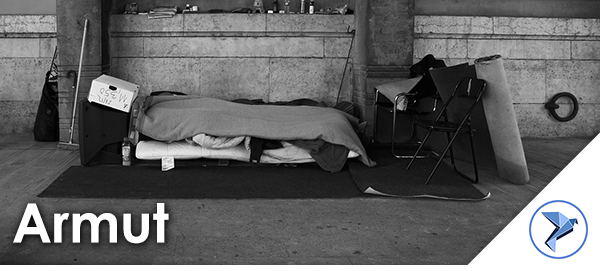
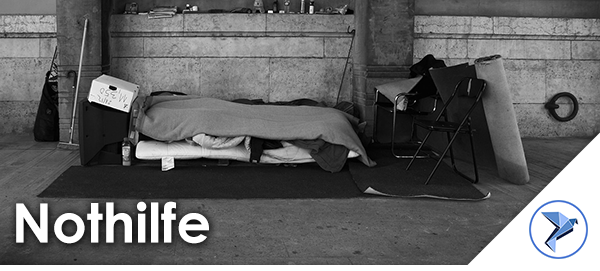
EasyBenefit.de | Version 1.1.17

Changed region(s): [[0.0, 0.738, 0.36, 0.9151]]

diff --git a/com/modal.php b/com/modal.php
@@ -64,6 +64,7 @@
           elseif($shop == "engelhorn") {echo "src='/style/img/shops/050.png' alt='Engelhorn'";}
           elseif($shop == "mediamarkt") {echo "src='/style/img/shops/051.png' alt='Mediamarkt'";}
           elseif($shop == "schalke04") {echo "src='/style/img/shops/052.png' alt='Schalke 04 Fanshop'";}
+          elseif($shop == "urlaubsbox") {echo "src='/style/img/shops/056/logo-small.jpg' alt='Urlaubsbox Freu dich drauf.'";}
       ?>/>
     </div>
     <div class="modal-body">
@@ -122,6 +123,7 @@
             elseif($shop == "engelhorn") {echo "http://partners.webmasterplan.com/click.asp?ref=711797&site=10317&type=b7&bnb=7&subid=kinder";}
             elseif($shop == "mediamarkt") {echo "http://partners.webmasterplan.com/click.asp?ref=711797&site=14665&type=b78&bnb=78&subid=kinder";}
             elseif($shop == "schalke") {echo "http://partners.webmasterplan.com/click.asp?ref=711797&site=14980&type=b21&bnb=21&subid=kinder";}
+            elseif($shop == "urlaubsbox") {echo "http://partners.webmasterplan.com/click.asp?ref=711797&site=9949&type=b10&bnb=10&subid=kinder";}
           ?>'/>
             <div class="projectcard">
               <img class="img-responsive" src="/style/img/projekte/projectcard-kinderhilfe-modal.png" alt="Spende für das aktuelle Kinderhilfsprojekt auf EasyBenefit.de"/>
@@ -188,6 +190,7 @@
     				elseif($shop == "engelhorn") {echo "http://partners.webmasterplan.com/click.asp?ref=711797&site=10317&type=b7&bnb=7&subid=senioren";}
     				elseif($shop == "mediamarkt") {echo "http://partners.webmasterplan.com/click.asp?ref=711797&site=14665&type=b78&bnb=78&subid=senioren";}
     				elseif($shop == "schalke") {echo "http://partners.webmasterplan.com/click.asp?ref=711797&site=14980&type=b21&bnb=21&subid=senioren";}
+            elseif($shop == "urlaubsbox") {echo "http://partners.webmasterplan.com/click.asp?ref=711797&site=9949&type=b10&bnb=10&subid=senioren";}
           ?>'/>
             <div class="projectcard">
               <img class="img-responsive" src="/style/img/projekte/projectcard-seniorenhilfe-modal.png" alt="Spende für das aktuelle Seniorenhilfsprojekt auf EasyBenefit.de"/>
@@ -254,6 +257,7 @@
     				elseif($shop == "engelhorn") {echo "http://partners.webmasterplan.com/click.asp?ref=711797&site=10317&type=b7&bnb=7&subid=tiere";}
     				elseif($shop == "mediamarkt") {echo "http://partners.webmasterplan.com/click.asp?ref=711797&site=14665&type=b78&bnb=78&subid=tiere";}
     				elseif($shop == "schalke") {echo "http://partners.webmasterplan.com/click.asp?ref=711797&site=14980&type=b21&bnb=21&subid=tiere";}
+            elseif($shop == "urlaubsbox") {echo "http://partners.webmasterplan.com/click.asp?ref=711797&site=9949&type=b10&bnb=10&subid=tiere";}
           ?>'/>
             <div class="projectcard">
               <img class="img-responsive" src="/style/img/projekte/projectcard-tierschutz-modal.png" alt="Spende für das aktuelle Tierschutzprojekt auf EasyBenefit.de"/>
@@ -322,6 +326,7 @@
     				elseif($shop == "engelhorn") {echo "http://partners.webmasterplan.com/click.asp?ref=711797&site=10317&type=b7&bnb=7&subid=natur";}
     				elseif($shop == "mediamarkt") {echo "http://partners.webmasterplan.com/click.asp?ref=711797&site=14665&type=b78&bnb=78&subid=natur";}
     				elseif($shop == "schalke") {echo "http://partners.webmasterplan.com/click.asp?ref=711797&site=14980&type=b21&bnb=21&subid=natur";}
+            elseif($shop == "urlaubsbox") {echo "http://partners.webmasterplan.com/click.asp?ref=711797&site=9949&type=b10&bnb=10&subid=natur";}
           ?>'/>
             <div class="projectcard">
               <img class="img-responsive" src="/style/img/projekte/projectcard-naturschutz-modal.png" alt="Spende für das aktuelle Naturschutzprojekt auf EasyBenefit.de"/>
@@ -388,6 +393,7 @@
     				elseif($shop == "engelhorn") {echo "http://partners.webmasterplan.com/click.asp?ref=711797&site=10317&type=b7&bnb=7&subid=entwicklung";}
     				elseif($shop == "mediamarkt") {echo "http://partners.webmasterplan.com/click.asp?ref=711797&site=14665&type=b78&bnb=78&subid=entwicklung";}
     				elseif($shop == "schalke") {echo "http://partners.webmasterplan.com/click.asp?ref=711797&site=14980&type=b21&bnb=21&subid=entwicklung";}
+            elseif($shop == "urlaubsbox") {echo "http://partners.webmasterplan.com/click.asp?ref=711797&site=9949&type=b10&bnb=10&subid=entwicklung";}
           ?>'/>
             <div class="projectcard">
               <img class="img-responsive" src="/style/img/projekte/projectcard-entwicklungshilfe-modal.png" alt="Spende für das aktuelle Entwicklungshilfsprojekt auf EasyBenefit.de"/>
@@ -454,6 +460,7 @@
     				elseif($shop == "engelhorn") {echo "http://partners.webmasterplan.com/click.asp?ref=711797&site=10317&type=b7&bnb=7&subid=gesundheit";}
     				elseif($shop == "mediamarkt") {echo "http://partners.webmasterplan.com/click.asp?ref=711797&site=14665&type=b78&bnb=78&subid=gesundheit";}
     				elseif($shop == "schalke") {echo "http://partners.webmasterplan.com/click.asp?ref=711797&site=14980&type=b21&bnb=21&subid=gesundheit";}
+            elseif($shop == "urlaubsbox") {echo "http://partners.webmasterplan.com/click.asp?ref=711797&site=9949&type=b10&bnb=10&subid=gesundheit";}
           ?>'/>
             <div class="projectcard">
               <img class="img-responsive" src="/style/img/projekte/projectcard-gesundheit-modal.png" alt="Spende für das aktuelle Gesundheitsprojekt auf EasyBenefit.de"/>
@@ -522,6 +529,7 @@
     				elseif($shop == "engelhorn") {echo "http://partners.webmasterplan.com/click.asp?ref=711797&site=10317&type=b7&bnb=7&subid=bildung";}
     				elseif($shop == "mediamarkt") {echo "http://partners.webmasterplan.com/click.asp?ref=711797&site=14665&type=b78&bnb=78&subid=bildung";}
     				elseif($shop == "schalke") {echo "http://partners.webmasterplan.com/click.asp?ref=711797&site=14980&type=b21&bnb=21&subid=bildung";}
+            elseif($shop == "urlaubsbox") {echo "http://partners.webmasterplan.com/click.asp?ref=711797&site=9949&type=b10&bnb=10&subid=bildung";}
           ?>'/>
             <div class="projectcard">
               <img class="img-responsive" src="/style/img/projekte/projectcard-bildung-modal.png" alt="Spende für das aktuelle Bildungsprojekt auf EasyBenefit.de"/>
@@ -538,61 +546,62 @@
         </div>
         <div class="col-sm-4">
           <a target="_blank" href='<?php if($shop == "amazon") {echo "http://bit.ly/amazon_armut_modal";}
-            elseif($shop == "bahn") {echo "http://partners.webmasterplan.com/click.asp?ref=711797&site=2894&type=b184&bnb=184&subid=armut";}
-    				elseif($shop == "docmorris") {echo "http://partners.webmasterplan.com/click.asp?ref=711797&site=3174&type=b184&bnb=184&subid=armut";}
-    				elseif($shop == "mydays") {echo "http://partners.webmasterplan.com/click.asp?ref=711797&site=3073&type=b434&bnb=434&subid=armut";}
-  		      elseif($shop == "runnerspoint") {echo "http://partners.webmasterplan.com/click.asp?ref=711797&site=7703&type=b42&bnb=42&subid=armut";}
-    				elseif($shop == "flaconi") {echo "http://partners.webmasterplan.com/click.asp?ref=711797&site=9069&type=b175&bnb=175&subid=armut";}
-    				elseif($shop == "trendfabrik") {echo "http://partners.webmasterplan.com/click.asp?ref=711797&site=8061&type=b60&bnb=60&subid=armut";}
-    				elseif($shop == "elbenwald") {echo "http://partners.webmasterplan.com/click.asp?ref=711797&site=2952&type=b552&bnb=552&subid=armut";}
-    				elseif($shop == "karstadt") {echo "http://partners.webmasterplan.com/click.asp?ref=711797&site=3720&type=b296&bnb=296&subid=armut";}
-    				elseif($shop == "bodyshop") {echo "http://partners.webmasterplan.com/click.asp?ref=711797&site=7647&type=b51&bnb=51&subid=armut";}
-    				elseif($shop == "amorelie") {echo "http://partners.webmasterplan.com/click.asp?ref=711797&site=12125&type=b97&bnb=97&subid=armut";}
-    				elseif($shop == "gymaesthetics") {echo "http://partners.webmasterplan.com/click.asp?ref=711797&site=13807&type=b26&bnb=26&subid=armut";}
-    				elseif($shop == "bookyourpresent") {echo "http://partners.webmasterplan.com/click.asp?ref=711797&site=13704&type=b21&bnb=21&subid=armut";}
-    				elseif($shop == "fotopuzzle") {echo "http://partners.webmasterplan.com/click.asp?ref=711797&site=6425&type=b13&bnb=13&subid=armut";}
-    				elseif($shop == "belsonno") {echo "http://partners.webmasterplan.com/click.asp?ref=711797&site=13661&type=text&tnb=2&subid=armut";}
-    				elseif($shop == "bvb") {echo "http://partners.webmasterplan.com/click.asp?ref=711797&site=14355&type=b46&bnb=46&subid=armut";}
-    				elseif($shop == "planetsports") {echo "http://partners.webmasterplan.com/click.asp?ref=711797&site=1943&type=b71&bnb=71&subid=armut";}
-    				elseif($shop == "home24") {echo "http://partners.webmasterplan.com/click.asp?ref=711797&site=7305&type=b225&bnb=225&subid=armut";}
-    				elseif($shop == "technomarkt") {echo "http://partners.webmasterplan.com/click.asp?ref=711797&site=13221&type=b18&bnb=18&subid=armut";}
-    				elseif($shop == "bergfreunde") {echo "http://partners.webmasterplan.com/click.asp?ref=711797&site=4108&type=text&tnb=38&subid=armut";}
-    				elseif($shop == "christ") {echo "http://partners.webmasterplan.com/click.asp?ref=711797&site=9063&type=b88&bnb=88&subid=armut";}
-    				elseif($shop == "brands4friends") {echo "http://partners.webmasterplan.com/click.asp?ref=711797&site=6466&type=b86&bnb=86&subid=armut";}
-    				elseif($shop == "ceweprint") {echo "http://partners.webmasterplan.com/click.asp?ref=711797&site=12052&type=b2&bnb=2&subid=armut";}
-    				elseif($shop == "decathlon") {echo "http://partners.webmasterplan.com/click.asp?ref=711797&site=10685&type=b7&bnb=7&subid=armut";}
-    				elseif($shop == "reichelt") {echo "http://partners.webmasterplan.com/click.asp?ref=711797&site=8948&type=b1&bnb=1&subid=armut";}
-    				elseif($shop == "schmuckonline") {echo "http://partners.webmasterplan.com/click.asp?ref=711797&site=13833&type=b4&bnb=4&subid=armut";}
-    				elseif($shop == "shopapotheke") {echo "http://partners.webmasterplan.com/click.asp?ref=711797&site=3357&type=text&tnb=34&subid=armut";}
-    				elseif($shop == "sportida") {echo "http://partners.webmasterplan.com/click.asp?ref=711797&site=13866&type=b23&bnb=23&subid=armut";}
-    				elseif($shop == "vistaprint") {echo "http://partners.webmasterplan.com/click.asp?ref=711797&site=1860&type=b48&bnb=48&subid=armut";}
-    				elseif($shop == "zooplus") {echo "http://partners.webmasterplan.com/click.asp?ref=711797&site=1597&type=b117&bnb=117&subid=armut";}
-    				elseif($shop == "audible") {echo "http://partners.webmasterplan.com/click.asp?ref=711797&site=3582&type=b198&bnb=198&subid=armut";}
-    				elseif($shop == "orsay") {echo "http://partners.webmasterplan.com/click.asp?ref=711797&site=4823&type=b3&bnb=3&subid=armut";}
-    				elseif($shop == "shirtinator") {echo "http://partners.webmasterplan.com/click.asp?ref=711797&site=5156&type=b17&bnb=17&subid=armut";}
-    				elseif($shop == "dawanda") {echo "http://partners.webmasterplan.com/click.asp?ref=711797&site=5571&type=b71&bnb=71&subid=armut";}
-    				elseif($shop == "hunkemöller") {echo "http://partners.webmasterplan.com/click.asp?ref=711797&site=6668&type=b106&bnb=106&subid=armut";}
-    				elseif($shop == "spartoo") {echo "http://partners.webmasterplan.com/click.asp?ref=711797&site=7563&type=b120&bnb=120&subid=armut";}
-    				elseif($shop == "sidestep") {echo "http://partners.webmasterplan.com/click.asp?ref=711797&site=7713&type=b32&bnb=32&subid=armut";}
-    				elseif($shop == "seidensticker") {echo "http://partners.webmasterplan.com/click.asp?ref=711797&site=8356&type=b81&bnb=81&subid=armut";}
-    				elseif($shop == "uhrenshop") {echo "http://partners.webmasterplan.com/click.asp?ref=711797&site=10063&type=b22&bnb=22&subid=armut";}
-    				elseif($shop == "sweet&fine") {echo "http://partners.webmasterplan.com/click.asp?ref=711797&site=13634&type=b14&bnb=14&subid=armut";}
-    				elseif($shop == "bokolina") {echo "http://partners.webmasterplan.com/click.asp?ref=711797&site=13762&type=b41&bnb=41&subid=armut";}
-    				elseif($shop == "ikea") {echo "http://partners.webmasterplan.com/click.asp?ref=711797&site=14354&type=b34&bnb=34&subid=armut";}
-    				elseif($shop == "buroshop24") {echo "http://partners.webmasterplan.com/click.asp?ref=711797&site=4084&type=b4&bnb=4&subid=armut";}
-    				elseif($shop == "neckermann") {echo "http://partners.webmasterplan.com/click.asp?ref=711797&site=13237&type=b7&bnb=7&subid=armut";}
-    				elseif($shop == "roller") {echo "http://partners.webmasterplan.com/click.asp?ref=711797&site=10010&type=b3&bnb=3&subid=armut";}
-    				elseif($shop == "postbus") {echo "http://partners.webmasterplan.com/click.asp?ref=711797&site=13643&type=b61&bnb=61&subid=armut";}
-    				elseif($shop == "comdirect") {echo "http://partners.webmasterplan.com/click.asp?ref=711797&site=3692&type=b73&bnb=73&subid=armut";}
-    				elseif($shop == "holidaycheck") {echo "http://partners.webmasterplan.com/click.asp?ref=711797&site=7412&type=b4&bnb=4&subid=armut";}
-    				elseif($shop == "engelhorn") {echo "http://partners.webmasterplan.com/click.asp?ref=711797&site=10317&type=b7&bnb=7&subid=armut";}
-    				elseif($shop == "mediamarkt") {echo "http://partners.webmasterplan.com/click.asp?ref=711797&site=14665&type=b78&bnb=78&subid=armut";}
-    				elseif($shop == "schalke") {echo "http://partners.webmasterplan.com/click.asp?ref=711797&site=14980&type=b21&bnb=21&subid=armut";}
+            elseif($shop == "bahn") {echo "http://partners.webmasterplan.com/click.asp?ref=711797&site=2894&type=b184&bnb=184&subid=nothilfe";}
+    				elseif($shop == "docmorris") {echo "http://partners.webmasterplan.com/click.asp?ref=711797&site=3174&type=b184&bnb=184&subid=nothilfe";}
+    				elseif($shop == "mydays") {echo "http://partners.webmasterplan.com/click.asp?ref=711797&site=3073&type=b434&bnb=434&subid=nothilfe";}
+  		      elseif($shop == "runnerspoint") {echo "http://partners.webmasterplan.com/click.asp?ref=711797&site=7703&type=b42&bnb=42&subid=nothilfe";}
+    				elseif($shop == "flaconi") {echo "http://partners.webmasterplan.com/click.asp?ref=711797&site=9069&type=b175&bnb=175&subid=nothilfe";}
+    				elseif($shop == "trendfabrik") {echo "http://partners.webmasterplan.com/click.asp?ref=711797&site=8061&type=b60&bnb=60&subid=nothilfe";}
+    				elseif($shop == "elbenwald") {echo "http://partners.webmasterplan.com/click.asp?ref=711797&site=2952&type=b552&bnb=552&subid=nothilfe";}
+    				elseif($shop == "karstadt") {echo "http://partners.webmasterplan.com/click.asp?ref=711797&site=3720&type=b296&bnb=296&subid=nothilfe";}
+    				elseif($shop == "bodyshop") {echo "http://partners.webmasterplan.com/click.asp?ref=711797&site=7647&type=b51&bnb=51&subid=nothilfe";}
+    				elseif($shop == "amorelie") {echo "http://partners.webmasterplan.com/click.asp?ref=711797&site=12125&type=b97&bnb=97&subid=nothilfe";}
+    				elseif($shop == "gymaesthetics") {echo "http://partners.webmasterplan.com/click.asp?ref=711797&site=13807&type=b26&bnb=26&subid=nothilfe";}
+    				elseif($shop == "bookyourpresent") {echo "http://partners.webmasterplan.com/click.asp?ref=711797&site=13704&type=b21&bnb=21&subid=nothilfe";}
+    				elseif($shop == "fotopuzzle") {echo "http://partners.webmasterplan.com/click.asp?ref=711797&site=6425&type=b13&bnb=13&subid=nothilfe";}
+    				elseif($shop == "belsonno") {echo "http://partners.webmasterplan.com/click.asp?ref=711797&site=13661&type=text&tnb=2&subid=nothilfe";}
+    				elseif($shop == "bvb") {echo "http://partners.webmasterplan.com/click.asp?ref=711797&site=14355&type=b46&bnb=46&subid=nothilfe";}
+    				elseif($shop == "planetsports") {echo "http://partners.webmasterplan.com/click.asp?ref=711797&site=1943&type=b71&bnb=71&subid=nothilfe";}
+    				elseif($shop == "home24") {echo "http://partners.webmasterplan.com/click.asp?ref=711797&site=7305&type=b225&bnb=225&subid=nothilfe";}
+    				elseif($shop == "technomarkt") {echo "http://partners.webmasterplan.com/click.asp?ref=711797&site=13221&type=b18&bnb=18&subid=nothilfe";}
+    				elseif($shop == "bergfreunde") {echo "http://partners.webmasterplan.com/click.asp?ref=711797&site=4108&type=text&tnb=38&subid=nothilfe";}
+    				elseif($shop == "christ") {echo "http://partners.webmasterplan.com/click.asp?ref=711797&site=9063&type=b88&bnb=88&subid=nothilfe";}
+    				elseif($shop == "brands4friends") {echo "http://partners.webmasterplan.com/click.asp?ref=711797&site=6466&type=b86&bnb=86&subid=nothilfe";}
+    				elseif($shop == "ceweprint") {echo "http://partners.webmasterplan.com/click.asp?ref=711797&site=12052&type=b2&bnb=2&subid=nothilfe";}
+    				elseif($shop == "decathlon") {echo "http://partners.webmasterplan.com/click.asp?ref=711797&site=10685&type=b7&bnb=7&subid=nothilfe";}
+    				elseif($shop == "reichelt") {echo "http://partners.webmasterplan.com/click.asp?ref=711797&site=8948&type=b1&bnb=1&subid=nothilfe";}
+    				elseif($shop == "schmuckonline") {echo "http://partners.webmasterplan.com/click.asp?ref=711797&site=13833&type=b4&bnb=4&subid=nothilfe";}
+    				elseif($shop == "shopapotheke") {echo "http://partners.webmasterplan.com/click.asp?ref=711797&site=3357&type=text&tnb=34&subid=nothilfe";}
+    				elseif($shop == "sportida") {echo "http://partners.webmasterplan.com/click.asp?ref=711797&site=13866&type=b23&bnb=23&subid=nothilfe";}
+    				elseif($shop == "vistaprint") {echo "http://partners.webmasterplan.com/click.asp?ref=711797&site=1860&type=b48&bnb=48&subid=nothilfe";}
+    				elseif($shop == "zooplus") {echo "http://partners.webmasterplan.com/click.asp?ref=711797&site=1597&type=b117&bnb=117&subid=nothilfe";}
+    				elseif($shop == "audible") {echo "http://partners.webmasterplan.com/click.asp?ref=711797&site=3582&type=b198&bnb=198&subid=nothilfe";}
+    				elseif($shop == "orsay") {echo "http://partners.webmasterplan.com/click.asp?ref=711797&site=4823&type=b3&bnb=3&subid=nothilfe";}
+    				elseif($shop == "shirtinator") {echo "http://partners.webmasterplan.com/click.asp?ref=711797&site=5156&type=b17&bnb=17&subid=nothilfe";}
+    				elseif($shop == "dawanda") {echo "http://partners.webmasterplan.com/click.asp?ref=711797&site=5571&type=b71&bnb=71&subid=nothilfe";}
+    				elseif($shop == "hunkemöller") {echo "http://partners.webmasterplan.com/click.asp?ref=711797&site=6668&type=b106&bnb=106&subid=nothilfe";}
+    				elseif($shop == "spartoo") {echo "http://partners.webmasterplan.com/click.asp?ref=711797&site=7563&type=b120&bnb=120&subid=nothilfe";}
+    				elseif($shop == "sidestep") {echo "http://partners.webmasterplan.com/click.asp?ref=711797&site=7713&type=b32&bnb=32&subid=nothilfe";}
+    				elseif($shop == "seidensticker") {echo "http://partners.webmasterplan.com/click.asp?ref=711797&site=8356&type=b81&bnb=81&subid=nothilfe";}
+    				elseif($shop == "uhrenshop") {echo "http://partners.webmasterplan.com/click.asp?ref=711797&site=10063&type=b22&bnb=22&subid=nothilfe";}
+    				elseif($shop == "sweet&fine") {echo "http://partners.webmasterplan.com/click.asp?ref=711797&site=13634&type=b14&bnb=14&subid=nothilfe";}
+    				elseif($shop == "bokolina") {echo "http://partners.webmasterplan.com/click.asp?ref=711797&site=13762&type=b41&bnb=41&subid=nothilfe";}
+    				elseif($shop == "ikea") {echo "http://partners.webmasterplan.com/click.asp?ref=711797&site=14354&type=b34&bnb=34&subid=nothilfe";}
+    				elseif($shop == "buroshop24") {echo "http://partners.webmasterplan.com/click.asp?ref=711797&site=4084&type=b4&bnb=4&subid=nothilfe";}
+    				elseif($shop == "neckermann") {echo "http://partners.webmasterplan.com/click.asp?ref=711797&site=13237&type=b7&bnb=7&subid=nothilfe";}
+    				elseif($shop == "roller") {echo "http://partners.webmasterplan.com/click.asp?ref=711797&site=10010&type=b3&bnb=3&subid=nothilfe";}
+    				elseif($shop == "postbus") {echo "http://partners.webmasterplan.com/click.asp?ref=711797&site=13643&type=b61&bnb=61&subid=nothilfe";}
+    				elseif($shop == "comdirect") {echo "http://partners.webmasterplan.com/click.asp?ref=711797&site=3692&type=b73&bnb=73&subid=nothilfe";}
+    				elseif($shop == "holidaycheck") {echo "http://partners.webmasterplan.com/click.asp?ref=711797&site=7412&type=b4&bnb=4&subid=nothilfe";}
+    				elseif($shop == "engelhorn") {echo "http://partners.webmasterplan.com/click.asp?ref=711797&site=10317&type=b7&bnb=7&subid=nothilfe";}
+    				elseif($shop == "mediamarkt") {echo "http://partners.webmasterplan.com/click.asp?ref=711797&site=14665&type=b78&bnb=78&subid=nothilfe";}
+    				elseif($shop == "schalke") {echo "http://partners.webmasterplan.com/click.asp?ref=711797&site=14980&type=b21&bnb=21&subid=nothilfe";}
+            elseif($shop == "urlaubsbox") {echo "http://partners.webmasterplan.com/click.asp?ref=711797&site=9949&type=b10&bnb=10&subid=nothilfe";}
           ?>'/>
             <div class="projectcard">
               <img class="img-responsive" src="/style/img/projekte/projectcard-armut-modal.png" alt="Spende jetzt kostenlos für ein Projekt im Bereich Armutsbekämpfung"/>
               <div class="projectdescription">
-                <h1><span>Armutsbekämpfung</span></h1>
+                <h1><span>Nothilfe</span></h1>
               </div>
               <div class="progress">
                 <div class="progress-bar" role="progressbar" aria-valuenow="60" aria-valuemin="0" aria-valuemax="100" style="width: <?php echo number_format($proarmut,0) ?>%;">
@@ -654,6 +663,7 @@
     				elseif($shop == "engelhorn") {echo "http://partners.webmasterplan.com/click.asp?ref=711797&site=10317&type=b7&bnb=7&subid=sport";}
     				elseif($shop == "mediamarkt") {echo "http://partners.webmasterplan.com/click.asp?ref=711797&site=14665&type=b78&bnb=78&subid=sport";}
     				elseif($shop == "schalke") {echo "http://partners.webmasterplan.com/click.asp?ref=711797&site=14980&type=b21&bnb=21&subid=sport";}
+            elseif($shop == "urlaubsbox") {echo "http://partners.webmasterplan.com/click.asp?ref=711797&site=9949&type=b10&bnb=10&subid=sport";}
           ?>'/>
             <div class="projectcard">
               <img class="img-responsive" src="/style/img/projekte/projectcard-sportsoziales-modal.png" alt="Spende jetzt kostenlos für ein Projekt im Bereich Sport & Soziales"/>
@@ -722,6 +732,7 @@
         elseif($shop == "engelhorn") {echo "http://partners.webmasterplan.com/click.asp?ref=711797&site=10317&type=b7&bnb=7&subid=allgemein";}
         elseif($shop == "mediamarkt") {echo "http://partners.webmasterplan.com/click.asp?ref=711797&site=14665&type=b78&bnb=78&subid=allgemein";}
         elseif($shop == "schalke") {echo "http://partners.webmasterplan.com/click.asp?ref=711797&site=14980&type=b21&bnb=21&subid=allgemein";}
+        elseif($shop == "urlaubsbox") {echo "http://partners.webmasterplan.com/click.asp?ref=711797&site=9949&type=b10&bnb=10&subid=allgemein";}
       ?>'/>
         <button type="button" class="btn btn-blue">Spende auf alle Projekte verteilen <i class="fa fa-fw fa-heart" aria-hidden="true"></i></button>
       </a>

diff --git a/404.php b/404.php
@@ -1,0 +1,94 @@
+<!DOCTYPE html>
+<html lang="de">
+<head>
+    <title>OOPS | Error 404 | EasyBenefit</title>
+    <!-- Common Meta --><?php include_once("com/common-meta.php") ?>
+    <!-- OG -->
+  	<meta property="og:title" content="EasyBenefit.de | Online einkaufen & Gutes tun." />
+  	<meta property="og:site_name" content="EasyBenefit.de"/>
+  	<meta property="og:url" content="https://easybenefit.de" />
+  	<meta property="og:description" content="Über EasyBenefit.de kannst du mit jedem deiner Onlineeinkäufe kostenlos einen kleinen Betrag an eine Kategorie deiner Wahl spenden. Es sind nur 3 Klicks, die dir die Möglichkeit geben kostenlos etwas Gutes zu tun."/>
+  	<meta property="og:image" content="https://easybenefit.de/style/img/og-easybenefit.png" />
+  	<meta property="fb:app_id" content="469470689893966" />
+    <!-- Font -->
+    <link href="https://fonts.googleapis.com/css?family=Roboto" rel="stylesheet">
+</head>
+<body>
+  <!-- Analytics --><?php include_once("com/analyticstracking.php") ?>
+  <!-- Spendenstand --><?php include_once("com/spendenstand.php") ?>
+  <!-- Navigation --><?php include_once("style/common/navbar.php") ?>
+
+  <!-- Page Content -->
+  <section id="error404">
+    <div class="container">
+      <h1 class="">OOPS</h1>
+      <div class="row">
+        <div class="col-md-2 col-sm-3 col-xs-4">
+          <a data-toggle="modal" data-target="#modalamazon" title="Spende mit deinem Einkauf bei Amazon">
+            <div class="shopcard">
+              <div class="shopimg">
+                <img class="img-responsive" src="/style/img/shops/001.jpg" alt="Bei Amazon einkaufen und kostenlos spenden"/>
+              </div>
+              <div class="shop-description">2-10 %<a class="info" href="/shops/amazon" title="Mehr Infromationen über Charity-Shopping bei Amazon"><i class="fa fa-question-circle-o" aria-hidden="true"></i></a></div>
+            </div>
+          </a>
+        </div>
+        <div class="col-md-2 col-sm-3 col-xs-4">
+          <a data-toggle="modal" data-target="#modalbahn" title="Spende mit dem Kauf von Bahn Tickets">
+            <div class="shopcard">
+              <div class="shopimg">
+                <img class="img-responsive" src="/style/img/shops/002.jpg" alt="Bahn Tickets kaufen und kostenlos spenden"/>
+              </div>
+                <div class="shop-description">1-5 €</div>
+            </div>
+          </a>
+        </div>
+        <div class="col-md-2 col-sm-3 col-xs-4">
+          <a data-toggle="modal" data-target="#modaldocmorris" title="Spende mit deinem Kauf bei Docmorris">
+            <div class="shopcard">
+              <div class="shopimg">
+                <img class="img-responsive" src="/style/img/shops/003.jpg" alt="Bei DocMorris einkaufen und kostenlos spenden"/>
+              </div>
+                <div class="shop-description">  3-25 %</div>
+            </div>
+          </a>
+        </div>
+        <div class="col-md-2 col-sm-3 col-xs-4">
+          <a data-toggle="modal" data-target="#modalmydays" title="Spende mit deinem Kauf bei mydays">
+            <div class="shopcard">
+              <div class="shopimg">
+                <img class="img-responsive" src="/style/img/shops/004.jpg" alt="Bei mydays einkaufen und kostenlos spenden"/>
+              </div>
+                <div class="shop-description">6-11 %</div>
+            </div>
+          </a>
+        </div>
+        <div class="col-md-2 hidden-sm col-xs-4">
+          <a data-toggle="modal" data-target="#modalrunnerspoint"  title="Spende mit deinem Kauf bei Runners Point">
+            <div class="shopcard">
+              <div class="shopimg">
+                <img class="img-responsive" src="/style/img/shops/005.jpg" alt="Bei Runners Point einkaufen und kostenlos spenden"/>
+              </div>
+                <div class="shop-description">4 %<a class="info" href="/shops/runnerspoint" title="Mehr Infromationen über Charity-Shopping bei RUNNERS POINT"><i class="fa fa-question-circle-o" aria-hidden="true"></i></a></div>
+            </div>
+          </a>
+        </div>
+        <div class="col-md-2 hidden-sm col-xs-4">
+          <a data-toggle="modal" data-target="#modalflaconi"  title="Spende mit deinem Kauf bei Flaconi">
+            <div class="shopcard">
+              <div class="shopimg">
+                <img class="img-responsive" src="/style/img/shops/006.jpg" alt="Bei Flaconi einkaufen und kostenlos spenden"/>
+              </div>
+                <div class="shop-description">7 %</div>
+            </div>
+          </a>
+        </div>
+      </div><!-- /.row -->
+    </div><!-- /.container -->
+  </section><!-- /section -->
+
+  <!-- Footer --><?php include "style/common/footer.php" ?>
+  <!-- jQuery --><script src="/style/js/jquery.js"></script>
+  <!-- Bootstrap Core JavaScript --><script src="/style/js/bootstrap.min.js"></script>
+</body>
+</html>

diff --git a/shops/index.php b/shops/index.php
@@ -586,6 +586,18 @@
               </div>
             </a>
           </div>
+          <div class="col-md-2 col-sm-3 col-xs-4 smallerpadding">
+            <a data-toggle="modal" data-target="#modalurlaubsbox">
+              <div class="shopcard">
+                <div class="shopimg">
+                  <img class="img-responsive" src="/style/img/shops/056/logo-small.jpg"/>
+                </div>
+                <div class="shop-description">
+                  12 %
+                </div>
+              </div>
+            </a>
+          </div>
 
         </div><!-- END main -->
       </div><!-- /.row -->
@@ -784,6 +796,10 @@
   <!--ModalSchalke -->
 	<div class="modal fade" id="modalschalke04" tabindex="-1" role="dialog" aria-labelledby="meinModalLabel">
   	<!-- Include Modal --><?php	$shop="schalke"; include "../com/modal.php"; ?>
+	</div>
+  <!--ModalSchalke -->
+	<div class="modal fade" id="modalurlaubsbox" tabindex="-1" role="dialog" aria-labelledby="meinModalLabel">
+  	<!-- Include Modal --><?php	$shop="urlaubsbox"; include "../com/modal.php"; ?>
 	</div>
 </body>
 </html>

diff --git a/projekte/index.php b/projekte/index.php
@@ -187,7 +187,7 @@
           </div><!-- /.row -->
           <div class="widget">
             <h1 class="eb-heading"><span>Weitersagen</span></h1>
-            <img class="img-responsive" src="/style/img/share_easybenefit.png" style="margin-bottom: 10px;" />
+            <img class="img-responsive" src="/style/img/og-easybenefit.png" style="margin-bottom: 10px;" />
             <a class="btn btn-sm btn-blue btn-full" href="http://www.facebook.com/sharer.php?u=https://easybenefit.de" title="Auf Facebook teilen" target="_blank" role="button"><i class="fa fa-fw fa-facebook" aria-hidden="true"></i> Facebook</a>
             <a class="btn btn-sm btn-blue btn-full" href="https://twitter.com/share?url=https://easybenefit.de&amp;hashtags=easybenefit" role="button"><i class="fa fa-fw fa-twitter" aria-hidden="true"></i></i> Twitter</a>
             <a class="btn btn-sm btn-blue btn-full" href="https://plus.google.com/share?url=https://easybenefit.de" title="Auf Google+ teilen" role="button"><i class="fa fa-fw fa-google-plus" aria-hidden="true"></i> Google+</a>
